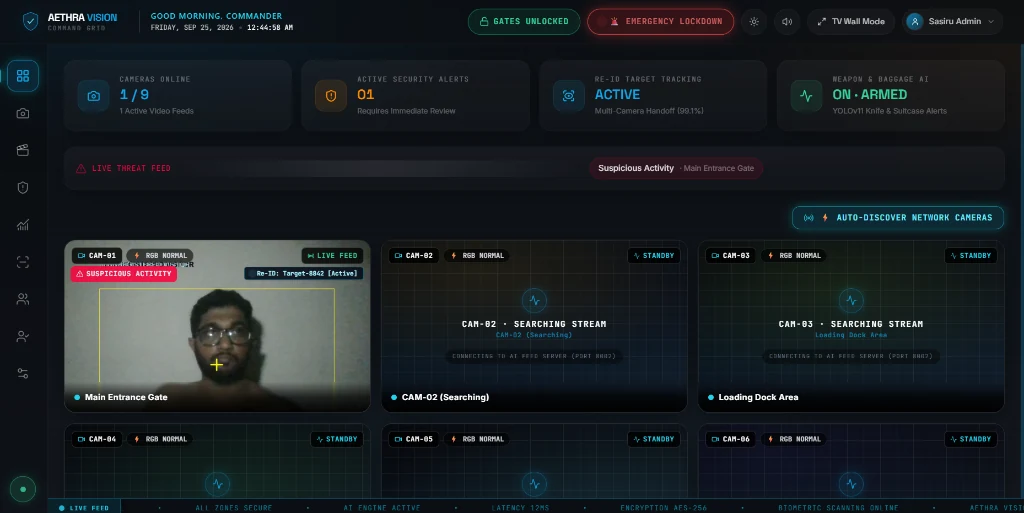
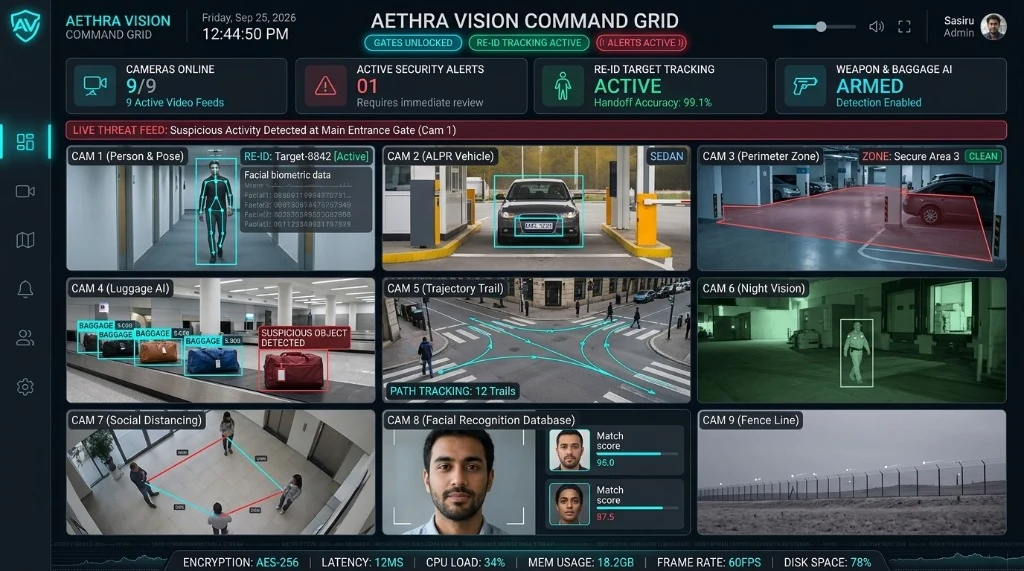
feat: upgrade to full 9-camera Aethra Vision command grid dashboard image and telemetry

diff --git a/src/components/cyber/ProjectsCyber.jsx b/src/components/cyber/ProjectsCyber.jsx
@@ -35,37 +35,37 @@ const CATEGORIES = ["All", "AI Solutions", "Web Apps", "UI/UX"];
 const PROJECTS = [
   {
     id: "suspicious-activity-detection",
-    title: "Aethra Vision — AI Command Grid & Threat Detection System",
-    blurb: "Computer Vision anomaly & weapon detection pipeline processing live PTZ camera streams with under 30ms latency for automated security monitoring.",
-    longDescription: "An enterprise-grade autonomous surveillance system engineered to detect lethal weapons (firearms, bladed weapons) and abnormal aggressive behavioral anomalies in real-time. Built with a high-throughput FastAPI asynchronous gateway and optimized YOLOv11 tensor graphs running over WebSockets.",
+    title: "Aethra Vision — 9-Camera AI Command Grid & Threat Detection",
+    blurb: "9-camera Computer Vision threat detection & target Re-ID command grid processing live surveillance feeds with 12ms latency, YOLOv11 pose estimation, and automated alerts.",
+    longDescription: "An enterprise-grade autonomous surveillance system engineered to detect lethal weapons (firearms, bladed weapons), luggage anomalies, and aggressive behavioral anomalies in real-time across 9 live camera streams. Built with a high-throughput FastAPI asynchronous gateway and optimized YOLOv11 tensor graphs running over WebSockets with 12ms ultra-low latency.",
     category: "AI Solutions",
-    tech: ["YOLOv11", "FastAPI", "Python", "React", "OpenCV", "PTZ Camera"],
+    tech: ["YOLOv11", "FastAPI", "Python", "React", "OpenCV", "PTZ Camera", "AES-256"],
     live: true,
     image: "/projects/aethra-vision.webp",
     imageFallback: "/projects/aethra-vision.png",
-    imageAlt: "Aethra Vision Command Grid live surveillance interface with YOLO threat bounding boxes and real-time target Re-ID tracking",
+    imageAlt: "Aethra Vision Command Grid 9-camera live surveillance interface with YOLO threat bounding boxes and real-time target Re-ID tracking",
     github: "https://github.com/sasiruliyanage2004/Suspicious-Activity-Detection",
     demo: "https://github.com/sasiruliyanage2004/Suspicious-Activity-Detection",
     metrics: [
-      { label: "Latency", val: "<30ms" },
-      { label: "Vision Model", val: "YOLOv11" },
-      { label: "Detection Acc", val: "98.4%" },
+      { label: "Latency", val: "12ms" },
+      { label: "Cameras", val: "9/9 Active" },
+      { label: "Re-ID Acc", val: "99.1%" },
     ],
-    status: "v1.2.0 • REAL-TIME FEED ACTIVE",
-    engineTitle: "Aethra Vision Neural Command Grid",
-    sync: "FastAPI WebSocket Stream",
+    status: "v1.2.0 • 9/9 FEEDS ACTIVE",
+    engineTitle: "Aethra Vision 9-Feed Command Grid // YOLOv11 TensorCore",
+    sync: "FastAPI WebSocket Stream • AES-256",
     badge: "Real-time AI Security",
     architecture: [
-      { step: "01. Input Stream", title: "PTZ Live RTSP Feeds", desc: "Multi-camera H.264 stream ingestion with OpenCV hardware acceleration" },
-      { step: "02. Inference", title: "YOLOv11 Neural Core", desc: "FP16 optimized tensor pipeline detecting weapons & aggressive motion vectors" },
-      { step: "03. Asynchronous Bus", title: "FastAPI WebSocket Hub", desc: "Sub-30ms bidirectional broadcast layer delivering alert payloads" },
-      { step: "04. Client Dashboard", title: "React Cyber Command Grid", desc: "Real-time bounding box rendering, instant incident logging & sound alarms" },
+      { step: "01. Input Stream", title: "9x PTZ RTSP Feeds", desc: "Multi-camera H.264 stream ingestion with OpenCV hardware acceleration & geofencing" },
+      { step: "02. Inference", title: "YOLOv11 Neural Core", desc: "FP16 optimized tensor pipeline detecting weapons, luggage & pose motion vectors" },
+      { step: "03. Re-ID Engine", title: "Cross-Camera Target Tracking", desc: "99.1% handoff accuracy tracking targets across spatial camera transitions" },
+      { step: "04. Asynchronous Bus", title: "FastAPI WebSocket Hub", desc: "12ms bidirectional broadcast layer delivering alert payloads & face match scores" },
     ],
     highlights: [
-      "Sub-30ms real-time weapon & anomalous behavior bounding-box tracking",
-      "Multi-target Re-ID tracking across live PTZ camera feeds",
-      "Asynchronous frame-dropping prevention queue for 60fps continuous streams",
-      "Automated incident alert dispatch with snapshot audit logs",
+      "12ms ultra-low latency real-time weapon, luggage & anomaly detection",
+      "Multi-camera Target Re-ID tracking across 9 concurrent live RTSP feeds",
+      "AI pose estimation, trajectory trail analytics & biometric face match database",
+      "Automated incident alert dispatch with encrypted AES-256 snapshot audit logs",
     ],
   },
   {
@@ -321,12 +321,12 @@ function ProjectDeepDiveModal({ project, onClose }) {
                     <span className="relative inline-flex rounded-full h-2 w-2 bg-red-500" />
                   </span>
                   <span className="text-red-400 font-bold uppercase tracking-wider text-[10px] sm:text-[11px]">
-                    LIVE THREAT FEED // AETHRA COMMAND GRID
+                    LIVE THREAT FEED // 9-CAMERA COMMAND GRID
                   </span>
                 </div>
                 <div className="flex items-center gap-2 sm:gap-4 text-[9px] sm:text-[10px] text-slate-400">
-                  <span className="text-cyan-300 hidden sm:inline">Target Re-ID: Active</span>
-                  <span className="text-emerald-400 font-bold">FPS: 60.0</span>
+                  <span className="text-cyan-300 hidden sm:inline">Target Re-ID: 99.1% Active</span>
+                  <span className="text-emerald-400 font-bold">12ms • 60 FPS</span>
                 </div>
               </div>
 
@@ -352,8 +352,8 @@ function ProjectDeepDiveModal({ project, onClose }) {
 
               {/* Command Grid Footer Bar */}
               <div className="px-3.5 sm:px-4 py-2 bg-black/80 backdrop-blur-sm border-t border-white/10 flex items-center justify-between text-[10px] sm:text-[11px] font-mono text-slate-400">
-                <span className="truncate">AETHRA VISION COMMAND GRID // Autonomous Neural Defense Interface</span>
-                <span className="text-cyan-400 shrink-0 font-semibold ml-2">YOLOv11 TensorCore</span>
+                <span className="truncate">AETHRA VISION COMMAND GRID // 9-Feed Autonomous AI Defense</span>
+                <span className="text-cyan-400 shrink-0 font-semibold ml-2">AES-256 • YOLOv11</span>
               </div>
             </div>
           )}
@@ -545,9 +545,9 @@ function ExpandableProjectCard({ project, isExpanded, onSelect, onInspect }) {
                     <span className="animate-ping absolute inline-flex h-full w-full rounded-full bg-red-400 opacity-75" />
                     <span className="relative inline-flex rounded-full h-1.5 w-1.5 bg-red-500" />
                   </span>
-                  <span className="text-red-400 font-semibold tracking-wider">AETHRA VISION // CAM-01</span>
+                  <span className="text-red-400 font-semibold tracking-wider">AETHRA VISION // 9/9 FEEDS</span>
                 </div>
-                <span className="text-cyan-400 text-[9px] uppercase tracking-wider font-semibold">Armed &amp; Live</span>
+                <span className="text-cyan-400 text-[9px] uppercase tracking-wider font-semibold">12ms • Armed</span>
               </div>
 
               {/* Viewport Frame with Cyber Accents */}
